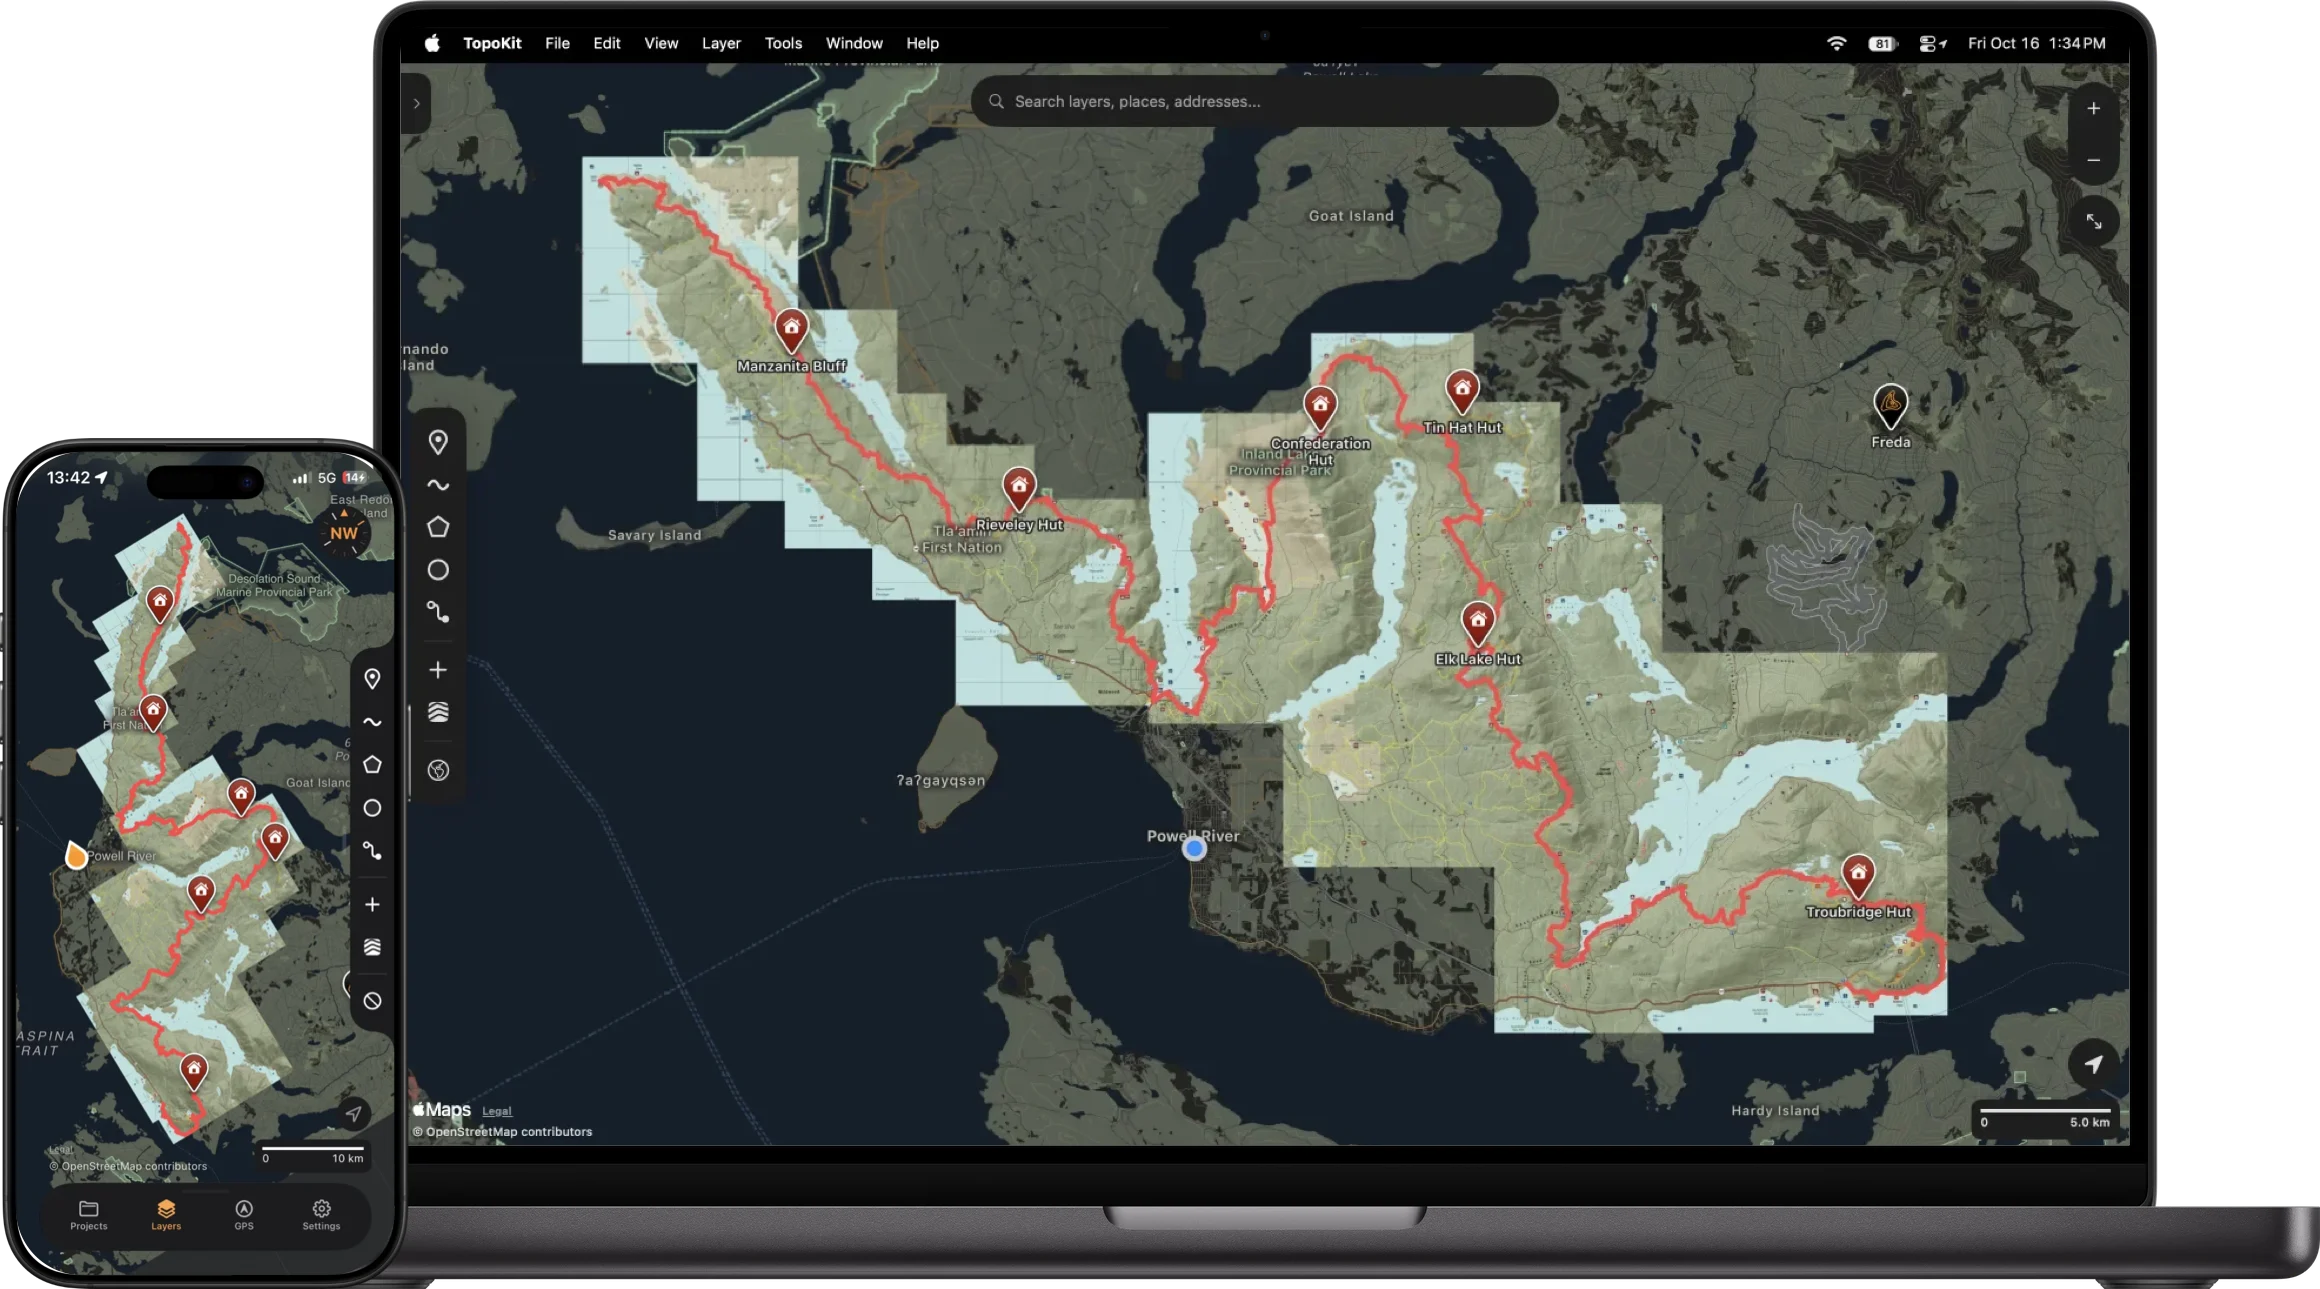
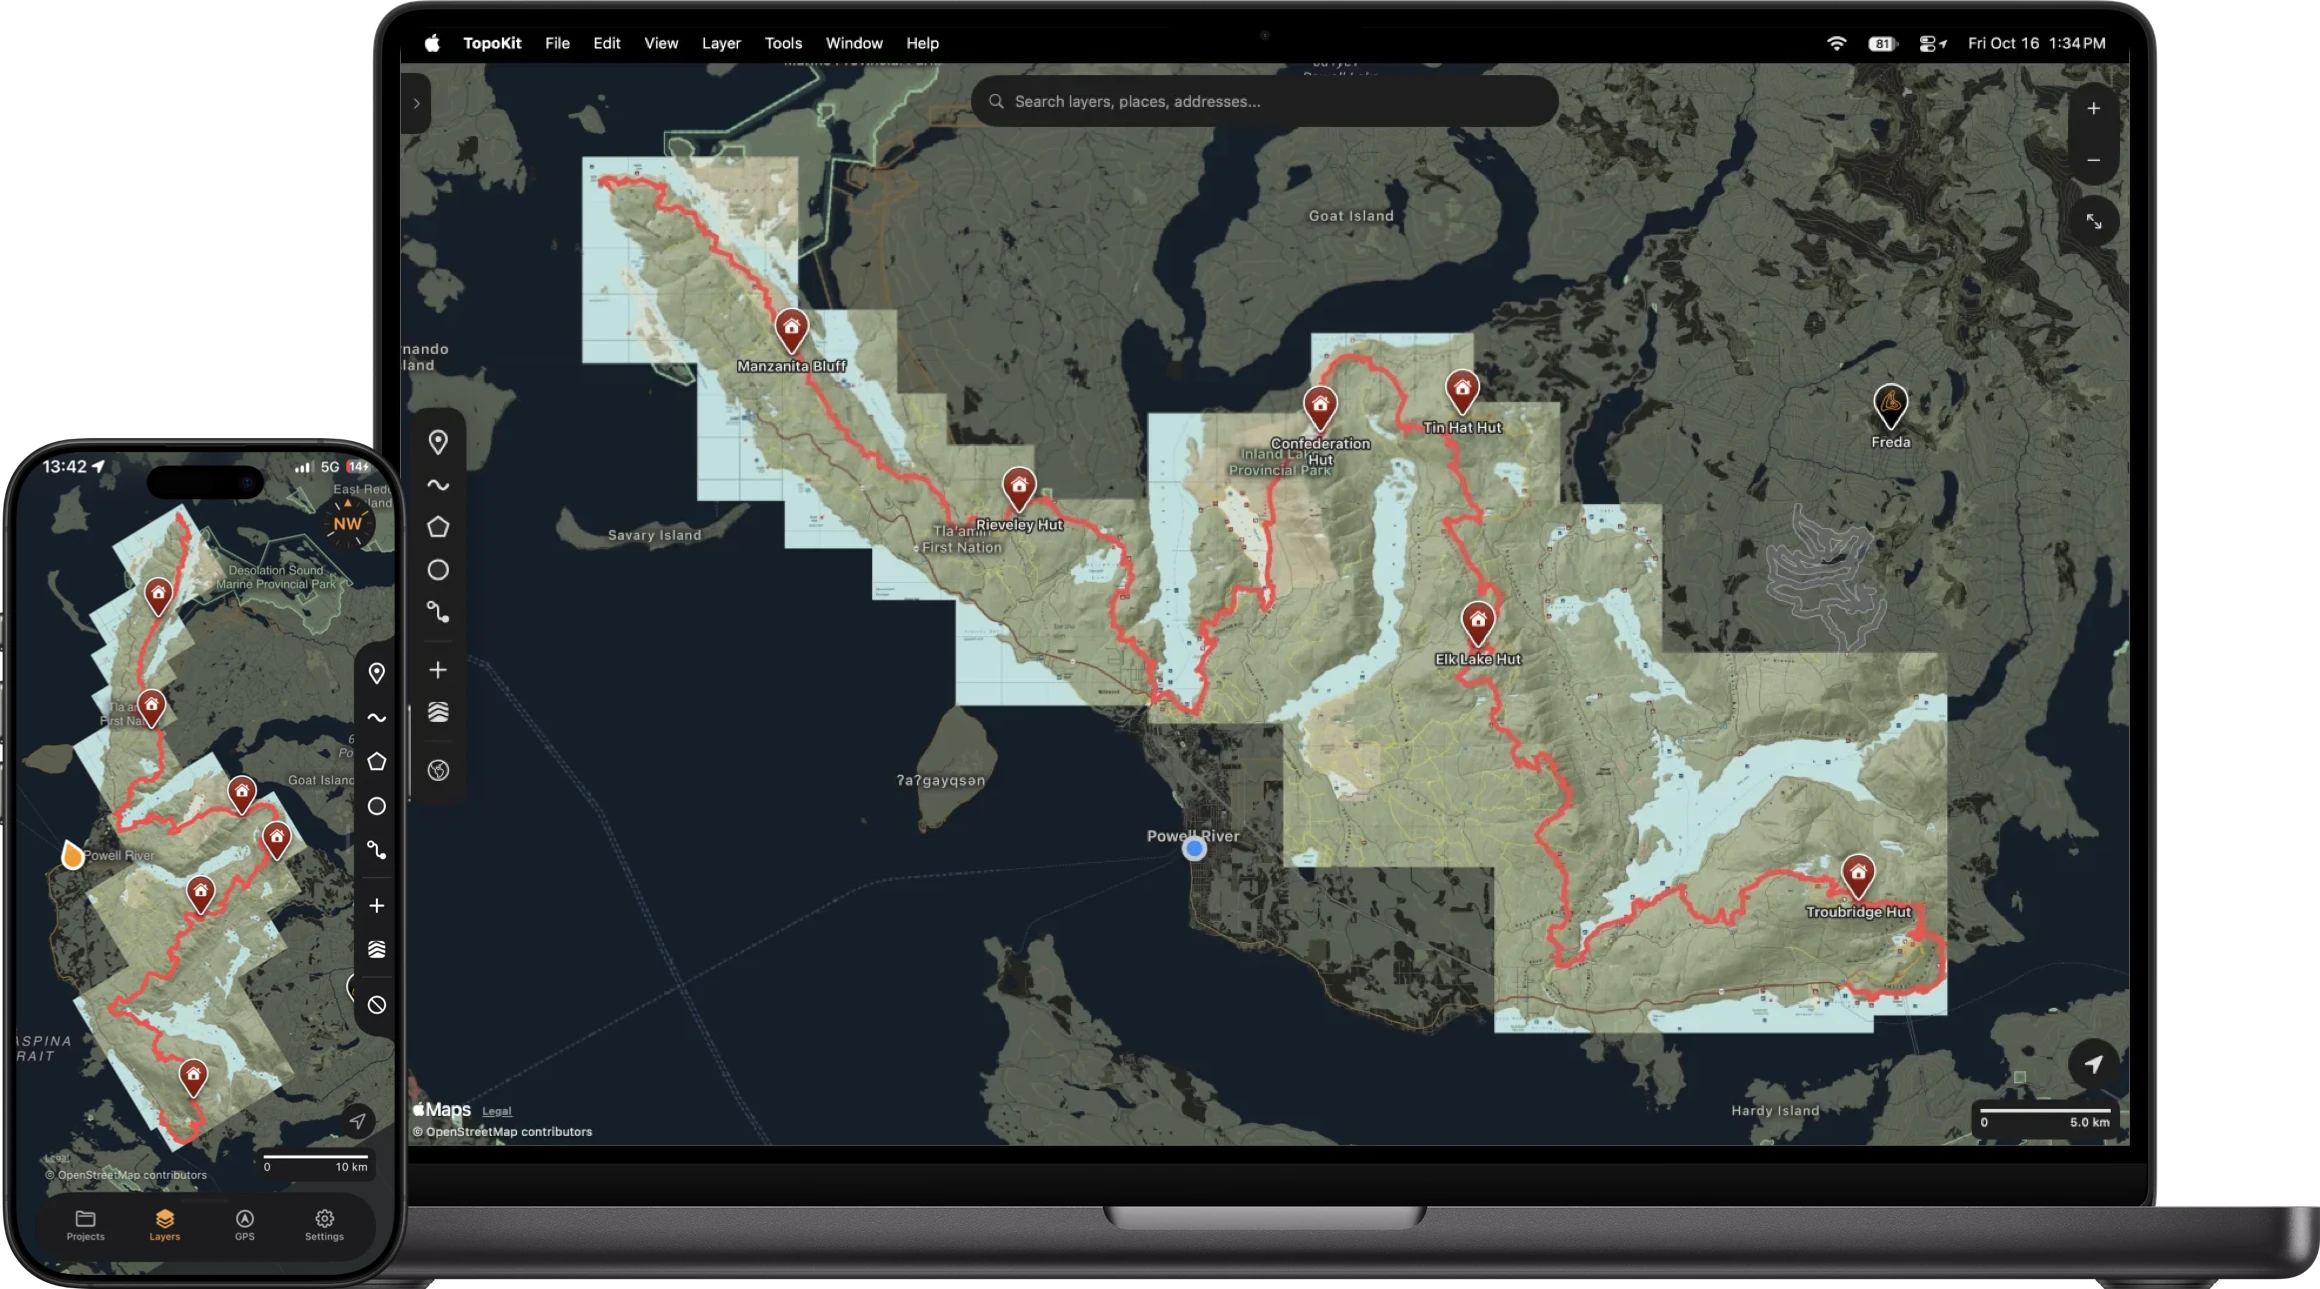
Front page: the iPhone screen fills the frame's display opening, on the highlight cards and in the hero composite and share card
The frame's display opening, measured from its alpha channel, is x 25–628 and y 22–1332 of the 654×1355 frame, with corners 93 px round inside a bezel ring 21–22 px wide. The cards clipped the screen with a 17.5% / 8% radius (105 px), larger than the opening's corners, so a crescent of the card showed in every corner; the composite and share card were built with the same numbers and carried the same crescents, letting the page show through the phone's corners.

The screen box is now the opening grown by 8 px on every side, so it runs under the bezel, and the radius is the opening's 93 px plus the same 8 px, so the screen's corner arc is concentric with the opening's and stays inside the body's outer corner. The composite and share card are regenerated with the same box and radius.

Changed region(s): [[0.0, 0.3413, 0.1862, 0.993], [0.1552, 0.4965, 0.1862, 0.5275]]

diff --git a/public/home.css b/public/home.css
@@ -297,7 +297,7 @@ body { font-family: 'Inter', -apple-system, sans-serif; color: var(--ink); backg
 .hl-device .hl-frame { display: block; width: 100%; height: auto; position: relative; }
 .hl-device video, .hl-device .hl-screen { position: absolute; object-fit: cover; background: #000; }
 .hl-device.mac video, .hl-device.mac .hl-screen { left: 9.033%; top: 2.173%; width: 81.935%; height: 86.69%; }
-.hl-device.iphone video, .hl-device.iphone .hl-screen { left: 3.899%; top: 1.624%; width: 92.202%; height: 96.753%; border-radius: 17.5% / 8%; }  /* the frame is transparent past the body's rounded corners; the display's own corner radius is about 100 px of the 603 px screen */
+.hl-device.iphone video, .hl-device.iphone .hl-screen { left: 2.599%; top: 1.033%; width: 94.801%; height: 97.934%; border-radius: 16.29% / 7.61%; }  /* the frame's display opening, measured from its alpha, is x 25–628, y 22–1332 of 654×1355 with corners 93 px round, inside a bezel ring 21–22 px wide. The screen box is that opening grown by 8 px on every side, so it runs under the bezel and no card or background shows between screen and bezel, and the radius is 93 + 8 = 101 px (16.29% of 620, 7.61% of 1327), so the screen's corner arc is concentric with the opening's and stays 13 px inside the body's outer corner. A box the exact size of the opening leaves a hairline gap wherever a measurement is a pixel off, and 17.5% / 8% (105 px) left a crescent in every corner */
 /* a film or a photograph filling the card, the sentence over it */
 .hl-full { position: absolute; left: 0; top: 0; width: 100%; height: 100%; object-fit: cover; background: #000; }
 .hl-scrim { position: absolute; left: 0; right: 0; bottom: 0; height: 55%; background: linear-gradient(to top, rgba(10,11,12,0.72), rgba(10,11,12,0)); }
